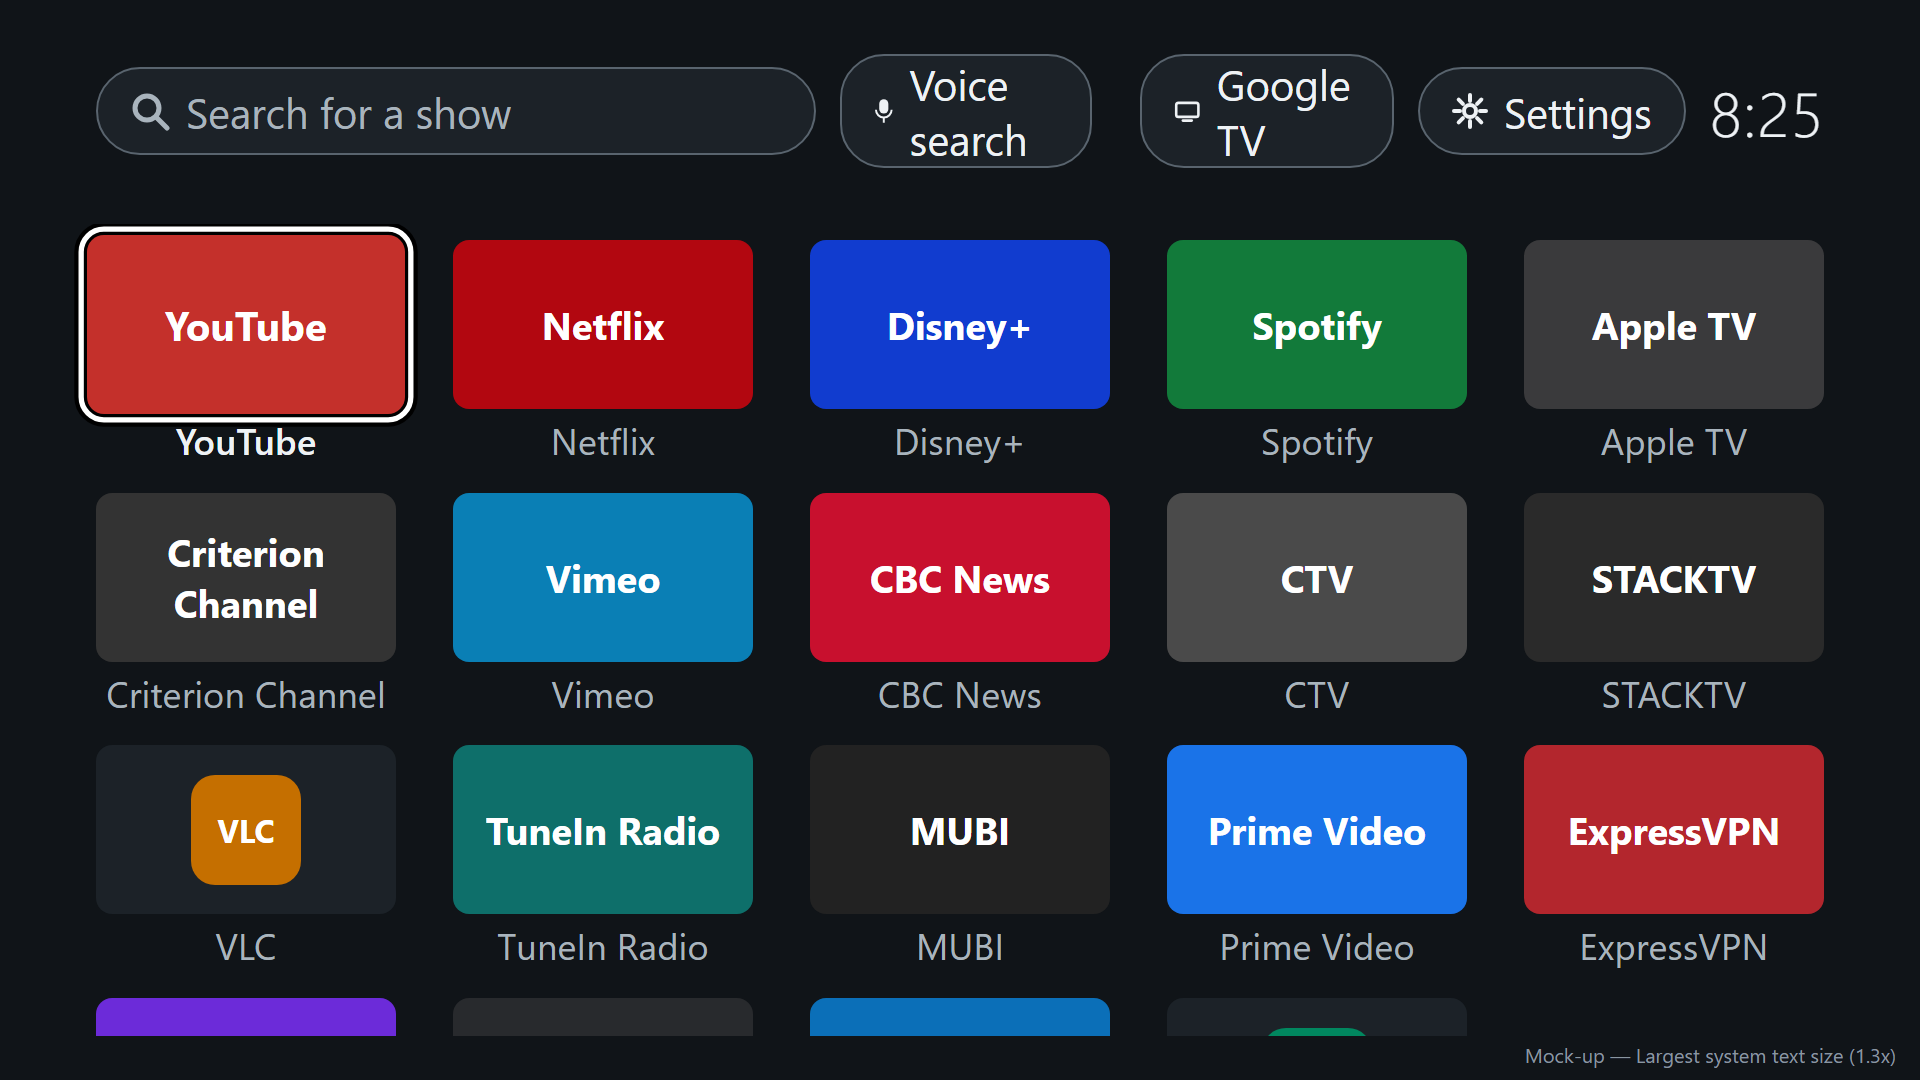
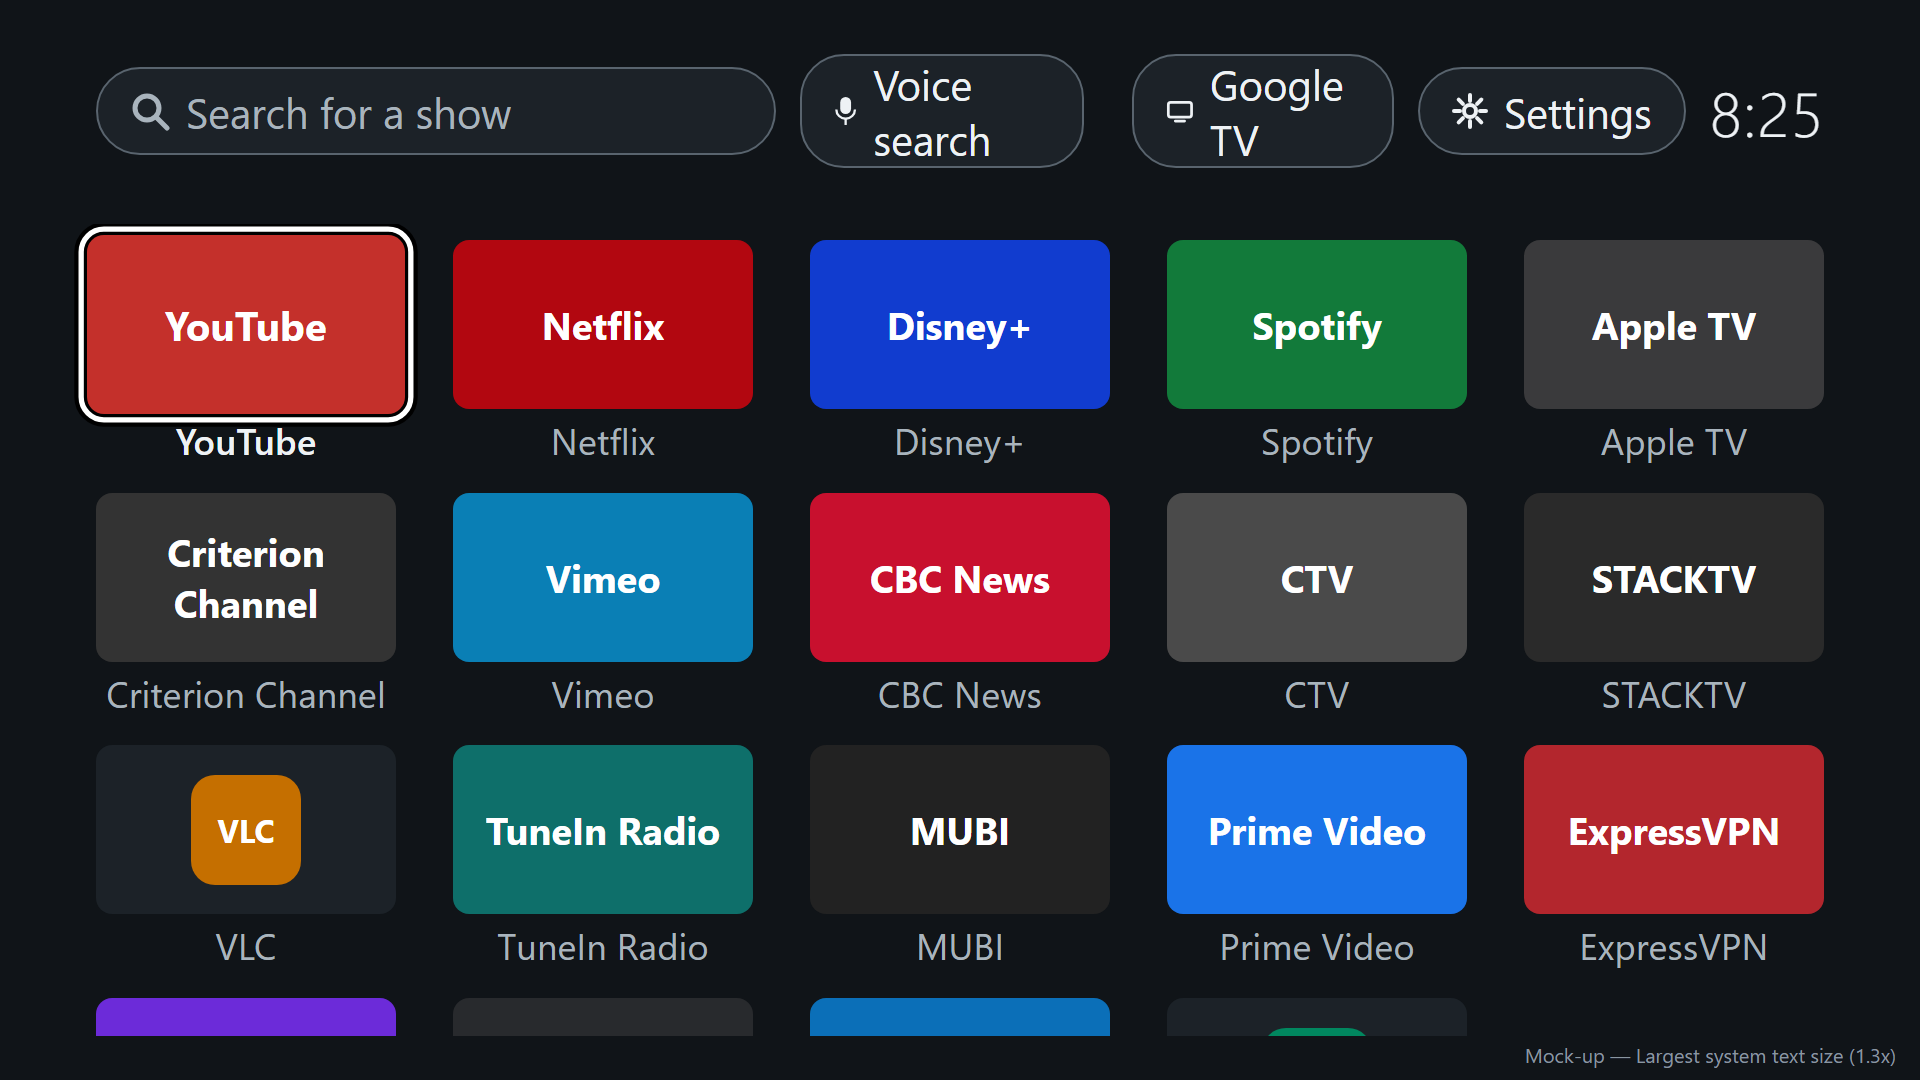
Fit the top row in the safe area; record the TV check; spec implemented
Claude-Session: https://claude.ai/code/session_01HWRLNRiDMKV2gxePp9PwS8

Changed region(s): [[0.5625, 0.0611, 0.7188, 0.1528], [0.4375, 0.0611, 0.5625, 0.1528]]

diff --git a/app/src/main/java/quiet/launcher/HomeActivity.kt b/app/src/main/java/quiet/launcher/HomeActivity.kt
@@ -406,10 +406,10 @@ class HomeActivity : Activity() {
             orientation = LinearLayout.HORIZONTAL
             gravity = Gravity.CENTER_VERTICAL
             clipChildren = false
-            addView(searchBox, LinearLayout.LayoutParams(px(360f), px(44f)))
+            addView(searchBox, LinearLayout.LayoutParams(px(340f), px(44f)))
             addView(voiceButton, LinearLayout.LayoutParams(ViewGroup.LayoutParams.WRAP_CONTENT, px(44f)).apply { marginStart = px(12f) })
             addView(View(this@HomeActivity), LinearLayout.LayoutParams(0, 1, 1f))
-            addView(googleTvButton, LinearLayout.LayoutParams(ViewGroup.LayoutParams.WRAP_CONTENT, px(44f)).apply { marginEnd = px(12f) })
+            addView(googleTvButton, LinearLayout.LayoutParams(ViewGroup.LayoutParams.WRAP_CONTENT, px(44f)).apply { marginStart = px(12f); marginEnd = px(12f) })
             addView(settingsButton, LinearLayout.LayoutParams(ViewGroup.LayoutParams.WRAP_CONTENT, px(44f)))
             addView(clock, LinearLayout.LayoutParams(ViewGroup.LayoutParams.WRAP_CONTENT, ViewGroup.LayoutParams.WRAP_CONTENT).apply { marginStart = px(16f) })
         }

diff --git a/docs/design/home-screen/mockup.html b/docs/design/home-screen/mockup.html
@@ -20,7 +20,7 @@
   .top { display: flex; align-items: center; gap: 24px; min-height: 96px; }
   .pill { min-height: 88px; border-radius: 44px; background: var(--surface); border: 2px solid var(--edge);
           display: flex; align-items: center; gap: 16px; padding: 0 32px; font-size: calc(32px * var(--scale)); }
-  .search { flex: 0 0 720px; color: var(--muted); }
+  .search { flex: 0 0 680px; color: var(--muted); }
   .search.typed { color: var(--text); }
   .caret { display: inline-block; width: 3px; height: 40px; background: var(--text); vertical-align: middle; margin-left: 2px; }
   .spacer { flex: 1; }

diff --git a/HANDOFF.md b/HANDOFF.md
@@ -127,8 +127,9 @@ Slice 3, the top row and search, merged as #33 (merge commit):
 `docs/specs/top-row-and-search.md` (`implemented`), tests first (`11dc742`, 20 failing), then the
 implementation; 49 tests pass; checked on the TV over ADB. The project lead's feature request, a **Google TV** button (top row next to **Settings**, anyone,
 uncovered until the next Home press or sleep), is in the documents in PR #34 (concept non-goal,
-REQ-home-12, story-quiet-home-google-tv, design with a mock-up, decision note, user docs). Next: its
-code (a spec, tests first, the implementation, a check on the TV), then the setup scripts. Wireless debugging turns off on restart; the TV's ADB port is now 34447.
+REQ-home-12, story-quiet-home-google-tv, design with a mock-up, decision note, user docs). Merged as
+#34. Its code is in PR #35 (`docs/specs/google-tv-button.md`, implemented; 57 tests pass; checked
+on the TV with the project lead). Next: slice 5, the setup and undo scripts. Wireless debugging turns off on restart; the TV's ADB port is now 34447.
 
 Sending a query wakes the TV, which may turn on the family-room TV over HDMI. Put it back with
 Back, Home, then `adb shell input keyevent KEYCODE_SLEEP`. With two ADB entries for the same TV

diff --git a/docs/specs/google-tv-button.md b/docs/specs/google-tv-button.md
@@ -1,5 +1,5 @@
 ---
-status: draft
+status: implemented
 tests: [app/src/test]
 tests-commit: d5276c07819cac9398f663b9c80112f3ad4e7a2f
 ---
@@ -39,6 +39,16 @@ A test cites a criterion as `google-tv-button#AC-1` in its name or a comment.
 `MovementTest` (top-row-and-search#AC-10, whose spec is implemented and so no longer locked) is
 amended in this change: Right from **Voice search** now lands on **Google TV**, and Right from
 **Google TV** on **Settings**.
+
+## Results on the reference device (2026-11-09)
+
+AC-8: **Google TV** opened Google TV's home screen, and it stayed while moved around in; after sleep
+and wake the quiet home screen showed (the service logged "screen off: covering Google TV again");
+afterwards, Google TV's home screen opened directly was covered again. With the project lead at the
+remote: **Google TV**, about 10 s in Google TV's home screen, then Home brought the quiet home screen
+back, drawn 0.15 s after the press. Found on the TV: the top row was too full (**Voice search** and
+**Google TV** touched, and the clock ran past the safe area), so the search box is 340 dp (680 px)
+wide and the button has a 12 dp gap on each side; the design says 680 px.
 
 ## Scope
 

diff --git a/docs/product/notes.md b/docs/product/notes.md
@@ -244,3 +244,12 @@ Driven over ADB under the standing go-ahead (`docs/specs/top-row-and-search.md`,
 - The Settings app keeps its task: opening it again returns to wherever it was left, so the quiet
   home screen opens it with `FLAG_ACTIVITY_CLEAR_TASK`.
 
+## The Google TV button on the TV (2026-11-09, late evening)
+
+- Opening Google TV's home screen explicitly (`MAIN` + `HOME` to
+  `com.google.android.apps.tv.launcherx/.home.HomeActivity`) from the accessibility service works.
+- `ACTION_SCREEN_OFF` reaches the service's run-time receiver, and starting the quiet home screen
+  while the screen is off leaves it in front on waking.
+- The top row at 1080p fits **Search for a show** (680 px), **Voice search**, **Google TV**,
+  **Settings**, and the clock inside the safe area, with 24 px gaps.
+

diff --git a/PLAN.md b/PLAN.md
@@ -66,8 +66,8 @@ file tracks where the project is; it is not a process artifact.
        screen opening in about half a second) belongs to slice 3.
     3. Merged as #33: the top row and search (search box, searching and failed states, voice
        search, Settings, clock, status line, TalkBack, movement); checked on the TV.
-    4. The **Google TV** button (the project lead's request, 2026-11-09): documents amended in their
-       own PR (#34) first, then a spec, tests first, and the code.
+    4. The **Google TV** button (the project lead's request, 2026-11-09): documents approved in #34;
+       the code in #35, checked on the TV with the project lead.
     5. The setup and undo scripts, tested against a fake ADB, then on the TV.
 
 ## Decisions so far

diff --git a/docs/design/home-screen.md b/docs/design/home-screen.md
@@ -80,7 +80,7 @@ Play Store last.
 - 1920 by 1080, inside the TV safe area (96 px at the sides, 54 px at the top and bottom). Dark,
   plain background. Nothing on the screen moves or changes on its own, apart from the clock and the
   status line.
-- **Top row**, left to right: **Search for a show** (a search box, with a magnifier, 720 px wide),
+- **Top row**, left to right: **Search for a show** (a search box, with a magnifier, 680 px wide),
   **Voice search** (with a microphone), **Google TV** (with a TV), **Settings** (with a gear), and
   the clock. The clock cannot be
   selected. Each control has a visible edge (`#59646e` on the dark background, at least 3:1). The

diff --git a/docs/user/home-screen.md b/docs/user/home-screen.md
@@ -2,7 +2,7 @@
 id: docs-home-screen
 status: approved
 derived-from:
-  - design-home-screen: 93e08f3b6109
+  - design-home-screen: 424ba6f8a749
   - story-quiet-home-home-key: 7adbfcde7ee1
   - story-quiet-home-apps: cef8c5e03e43
   - story-quiet-home-new-and-removed-apps: bbd39a3046ae
